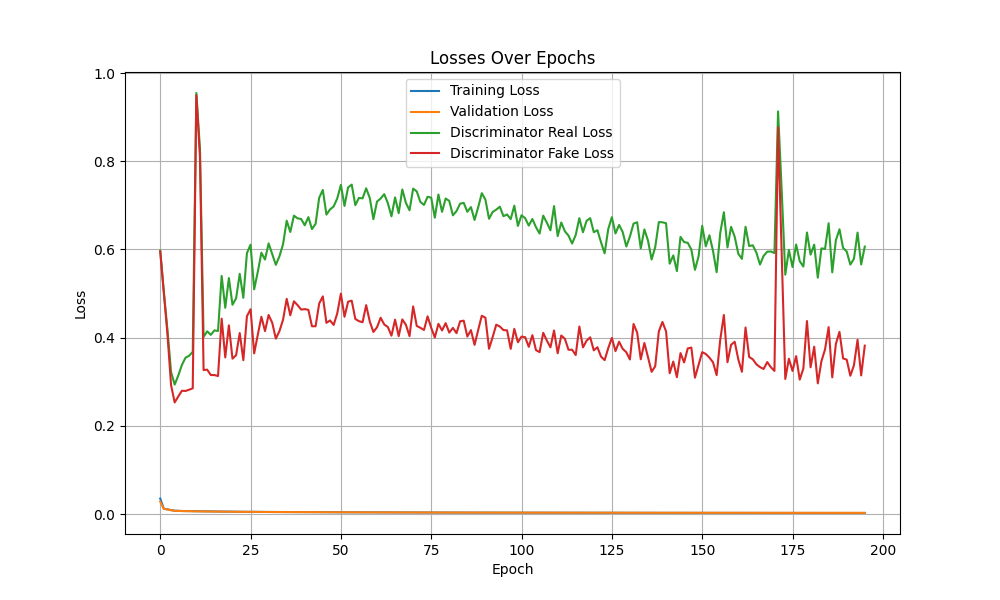
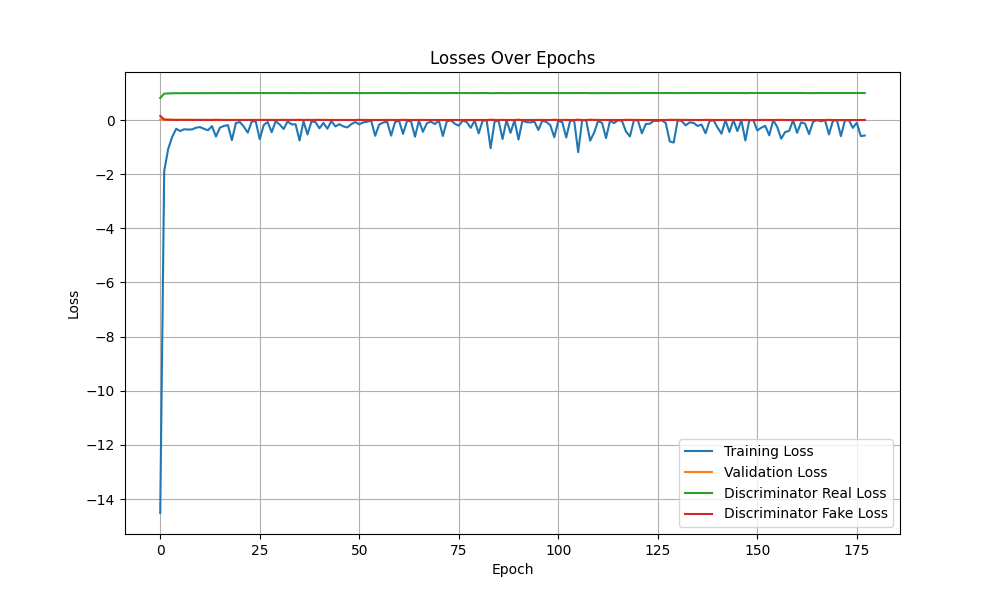
comp LGnet

diff --git a/src/LGnet/main_.py b/src/LGnet/main_.py
@@ -1,5 +1,6 @@
 import time
 
+import matplotlib.pyplot as plt
 import numpy as np
 import pandas as pd
 import torch
@@ -7,26 +8,26 @@ import torch.nn as nn
 import torch.utils.data as utils
 from Discriminator import *
 from LGnet_ import *
-import matplotlib.pyplot as plt
 
 
 def wasserstein_loss(y_pred, y_true):
     return torch.mean(y_pred * y_true)
 
+
 def plot_losses_combined(losses_train, losses_valid, losses_d_real, losses_d_fake, filename):
     plt.figure(figsize=(10, 6))
 
-    plt.plot(losses_train, label='Training Loss')
-    plt.plot(losses_valid, label='Validation Loss')
-    plt.plot(losses_d_real, label='Discriminator Real Loss')
-    plt.plot(losses_d_fake, label='Discriminator Fake Loss')
+    plt.plot(losses_train, label="Training Loss")
+    plt.plot(losses_valid, label="Validation Loss")
+    plt.plot(losses_d_real, label="Discriminator Real Loss")
+    plt.plot(losses_d_fake, label="Discriminator Fake Loss")
 
-    plt.title('Losses Over Epochs')
-    plt.xlabel('Epoch')
-    plt.ylabel('Loss')
+    plt.title("Losses Over Epochs")
+    plt.xlabel("Epoch")
+    plt.ylabel("Loss")
     plt.legend()
     plt.grid(True)
-    
+
     plt.savefig(filename)
     plt.show()
 
@@ -200,8 +201,8 @@ def Train_Model(
     loss_MSE = torch.nn.MSELoss()
     loss_L1 = torch.nn.L1Loss()
 
-    lambda_dis = 0.1
-    learning_rate = 0.0001
+    lambda_dis = 1.0
+    learning_rate = 0.0005
     optimizer = torch.optim.RMSprop(model.parameters(), lr=learning_rate)
     optimizer_adv = torch.optim.RMSprop(discriminator.parameters(), lr=learning_rate)
     adversarial_loss = wasserstein_loss
@@ -405,7 +406,13 @@ def Train_Model(
             mem_allocated = torch.cuda.memory_allocated() / (1024 * 1024)  # MB単位で取得
             print(f"Epoch {epoch}: GPU memory allocated at end of epoch: {mem_allocated:.2f} MB")
 
-    plot_losses_combined(losses_epochs_train, losses_epochs_valid, losses_epochs_d_loss_real, losses_epochs_d_loss_fake, 'combined_losses.png')
+    plot_losses_combined(
+        losses_epochs_train,
+        losses_epochs_valid,
+        losses_epochs_d_loss_real,
+        losses_epochs_d_loss_fake,
+        "combined_losses.png",
+    )
 
     return best_model, [losses_train, losses_valid, losses_epochs_train, losses_epochs_valid]
 
@@ -501,13 +508,13 @@ if __name__ == "__main__":
         speed_matrix = pd.read_pickle("/workspaces/STdata_prediction/src/GRU-D-zhiyongc/input/speed_matrix_2015")
 
     train_dataloader, valid_dataloader, test_dataloader, max_speed, X_mean = PrepareDataset(
-        speed_matrix, BATCH_SIZE=64, masking=True
+        speed_matrix, BATCH_SIZE=32, masking=True
     )
 
     inputs, labels = next(iter(train_dataloader))
     [batch_size, type_size, step_size, fea_size] = inputs.size()
     input_dim = fea_size
-    hidden_dim = 32
+    hidden_dim = fea_size
     output_dim = fea_size
 
     lgnet = LGnet_(

diff --git a/src/LGnet/Discriminator.py b/src/LGnet/Discriminator.py
@@ -1,27 +1,38 @@
-import math
-
 import torch
 import torch.nn as nn
 import torch.nn.functional as F
-from torch.autograd import Variable
-from torch.nn.parameter import Parameter
+
 
 class Discriminator(nn.Module):
-    def __init__(self, input_dim):
+    def __init__(self, input_dim, disable_cudnn=False):
         super(Discriminator, self).__init__()
+        if disable_cudnn:
+            torch.backends.cudnn.enabled = False
+
         self.conv1 = nn.Conv1d(input_dim, 64, kernel_size=3, stride=1, padding=1)
+        self.bn1 = nn.BatchNorm1d(64)
         self.conv2 = nn.Conv1d(64, 128, kernel_size=3, stride=1, padding=1)
+        self.bn2 = nn.BatchNorm1d(128)
         self.fc1 = nn.Linear(128, 1024)
+        self.dropout = nn.Dropout(0.5)
         self.fc2 = nn.Linear(1024, 1)
 
     def forward(self, x):
         if x.dim() == 2:
             x = x.unsqueeze(1)
         x = x.permute(0, 2, 1)  # Change shape to (batch_size, features, sequence_length)
-        out = F.relu(self.conv1(x))
-        out = F.relu(self.conv2(out))
+
+        out = F.relu(self.bn1(self.conv1(x)))
+        out = F.relu(self.bn2(self.conv2(out)))
         out = out.mean(2)  # Global Average Pooling
+
         out = F.relu(self.fc1(out))
+        out = self.dropout(out)
         out = self.fc2(out)
-        out = torch.sigmoid(out) 
+        out = torch.sigmoid(out)
+
         return out
+
+
+# Example usage
+# model = Discriminator(input_dim=10, disable_cudnn=True)

diff --git a/src/LGnet/main_adv.py b/src/LGnet/main_adv.py
@@ -438,7 +438,7 @@ if __name__ == "__main__":
     output_dim = fea_size
 
     lgnet = LGnet_adv(
-        input_dim, hidden_dim, output_dim, X_mean, memory_size=16, memory_dim=128, num_layers=1, output_last=True
+        input_dim, hidden_dim, output_dim, X_mean, memory_size=64, memory_dim=128, num_layers=1, output_last=True
     )
     best_lgnet, losses_lgnet = Train_Model(lgnet, train_dataloader, valid_dataloader)
     [losses_l1, losses_mse, mean_l1, std_l1] = Test_Model(best_lgnet, test_dataloader, max_speed)

diff --git a/src/LGnet/main_advmem.py b/src/LGnet/main_advmem.py
@@ -427,7 +427,7 @@ if __name__ == "__main__":
     inputs, labels = next(iter(train_dataloader))
     [batch_size, type_size, step_size, fea_size] = inputs.size()
     input_dim = fea_size
-    hidden_dim = 64
+    hidden_dim = fea_size
     output_dim = fea_size
 
     lgnet = LGnet_advmem(input_dim, hidden_dim, output_dim, X_mean, memory_size=32, num_layers=1, output_last=True)

diff --git a/src/LGnet/LGnet_.py b/src/LGnet/LGnet_.py
@@ -89,7 +89,7 @@ class LGnet_(nn.Module):
         self.q_for_memory = nn.Linear(2 * input_size + output_size, memory_dim)
 
         # Initialize memory component
-        self.memory = nn.Parameter(torch.rand(memory_size, memory_dim))
+        self.memory = nn.Parameter(torch.Tensor(memory_size, memory_dim))
 
         self.output_last = output_last
 

diff --git a/src/LGnet/main_mem.py b/src/LGnet/main_mem.py
@@ -201,7 +201,7 @@ def Train_Model(
     loss_MSE = torch.nn.MSELoss()
     loss_L1 = torch.nn.L1Loss()
 
-    lambda_dis = 0.0
+    lambda_dis = 100
     learning_rate = 0.0001
     optimizer = torch.optim.RMSprop(model.parameters(), lr=learning_rate)
     optimizer_adv = torch.optim.RMSprop(discriminator.parameters(), lr=learning_rate)
